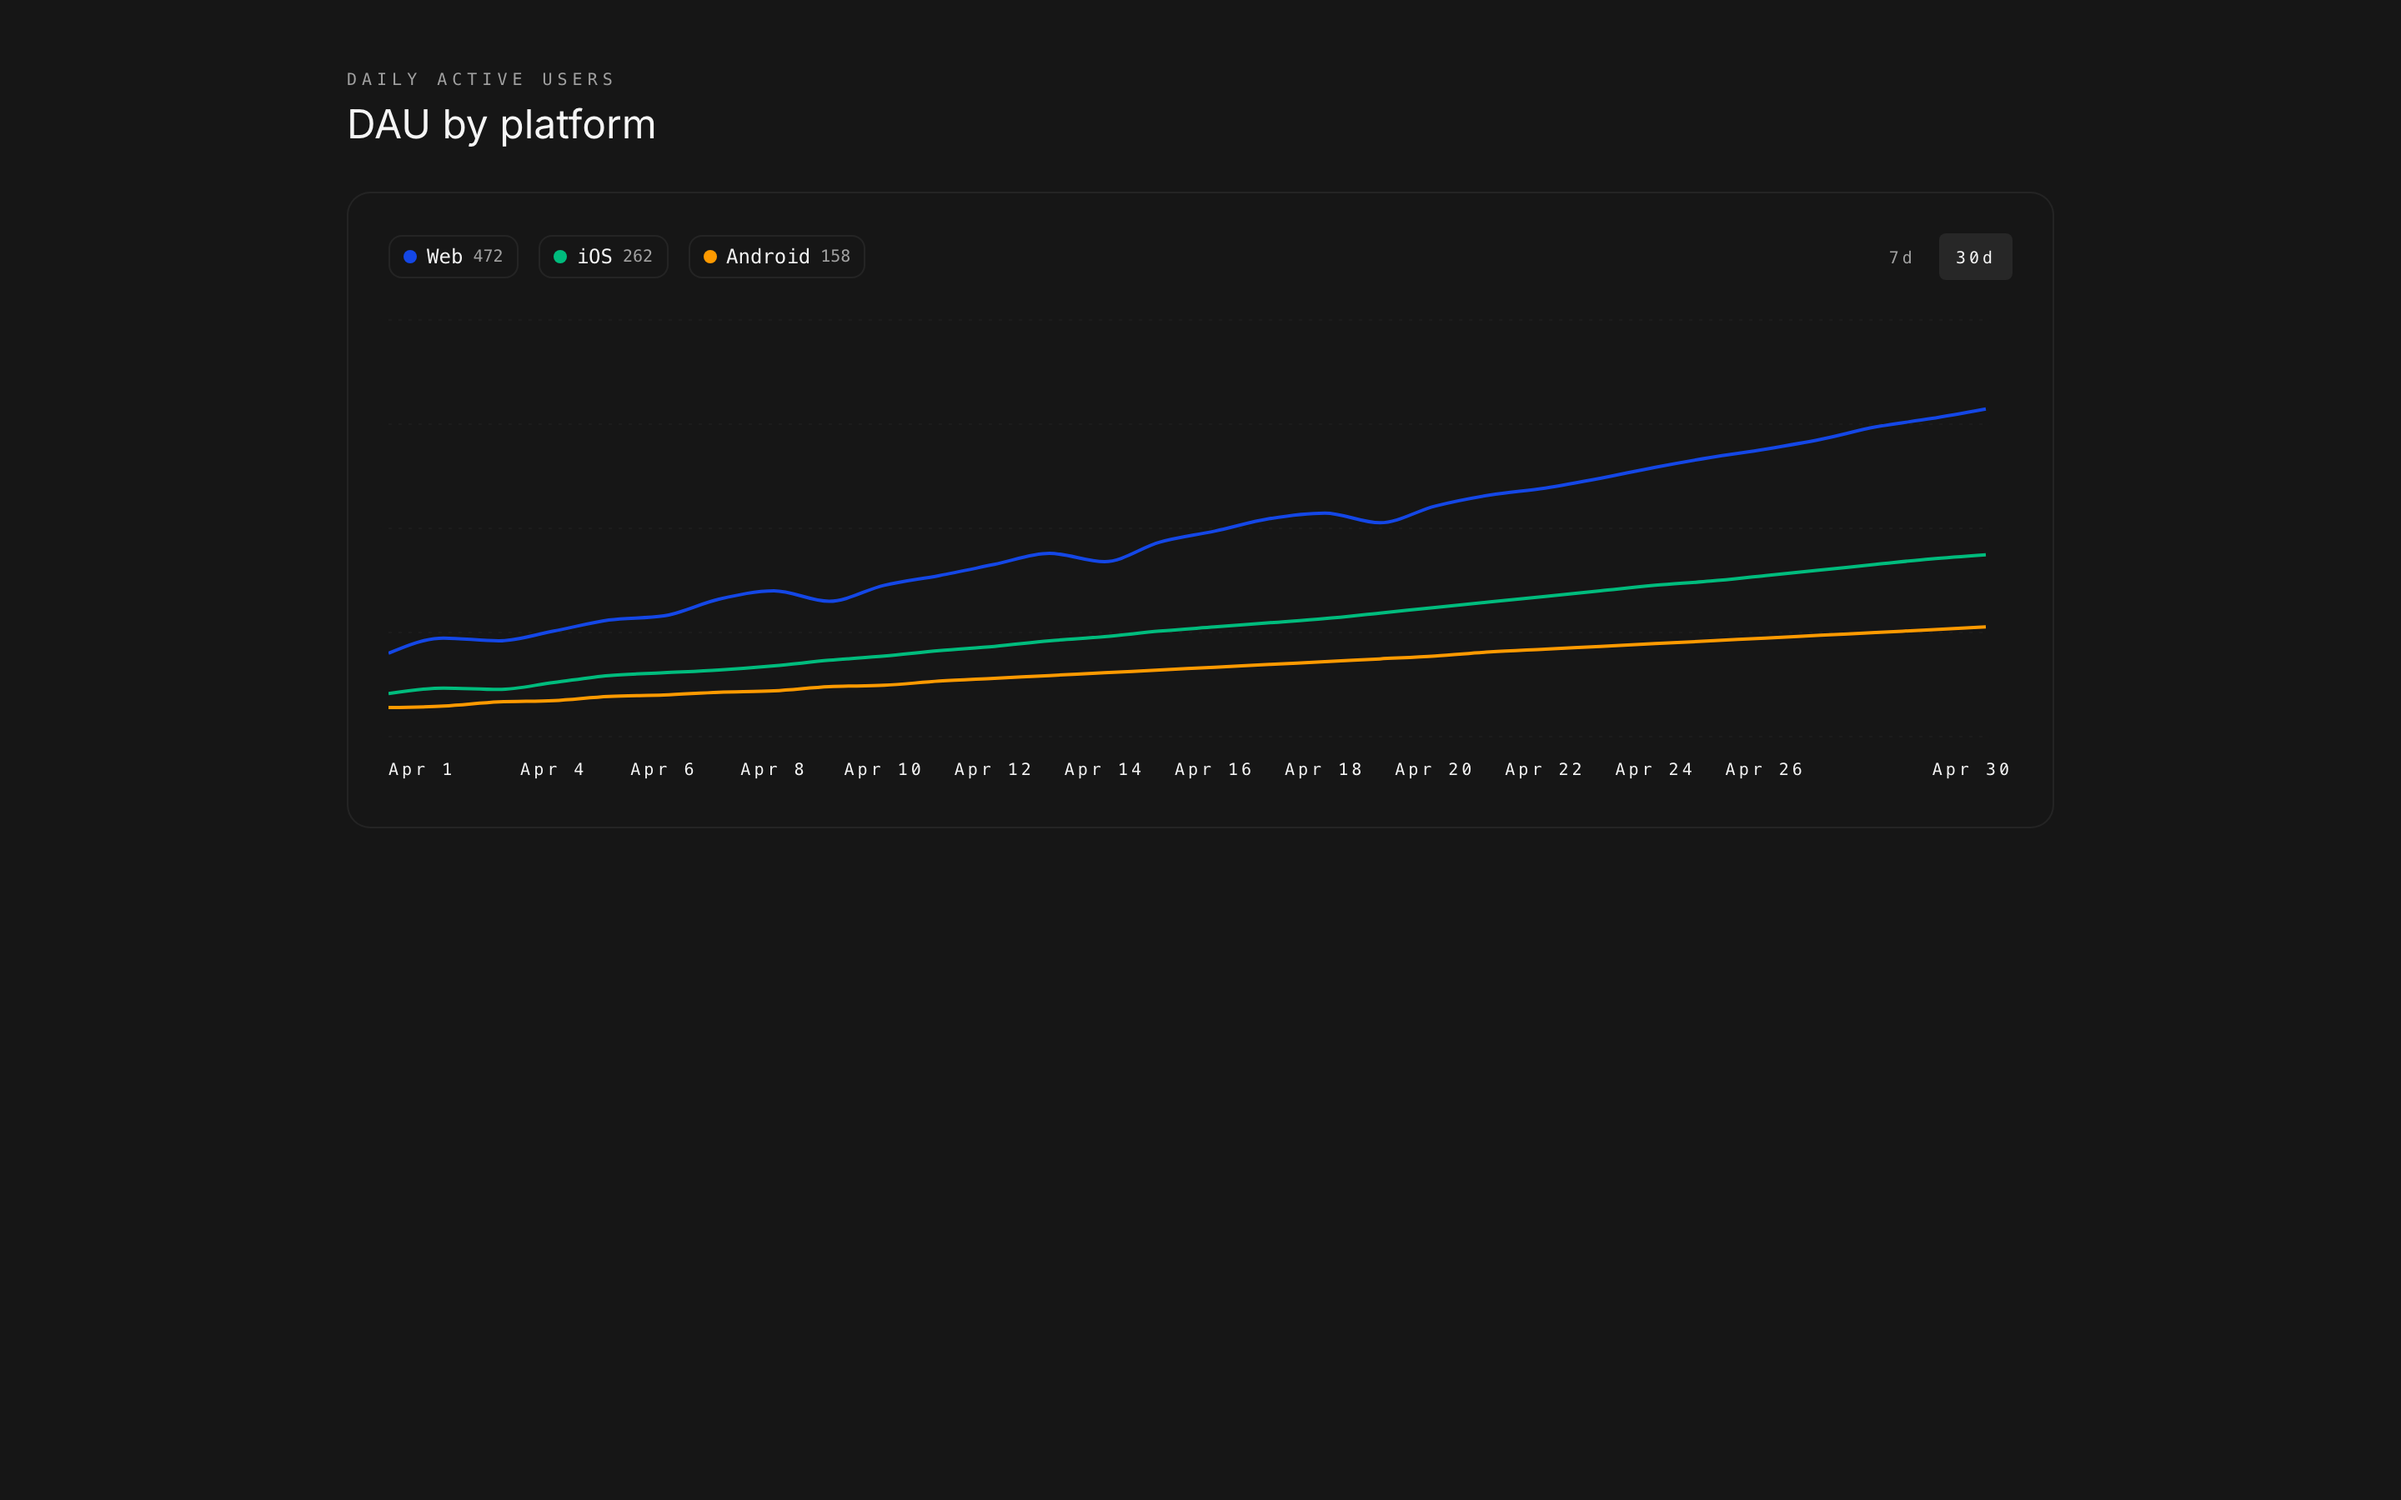
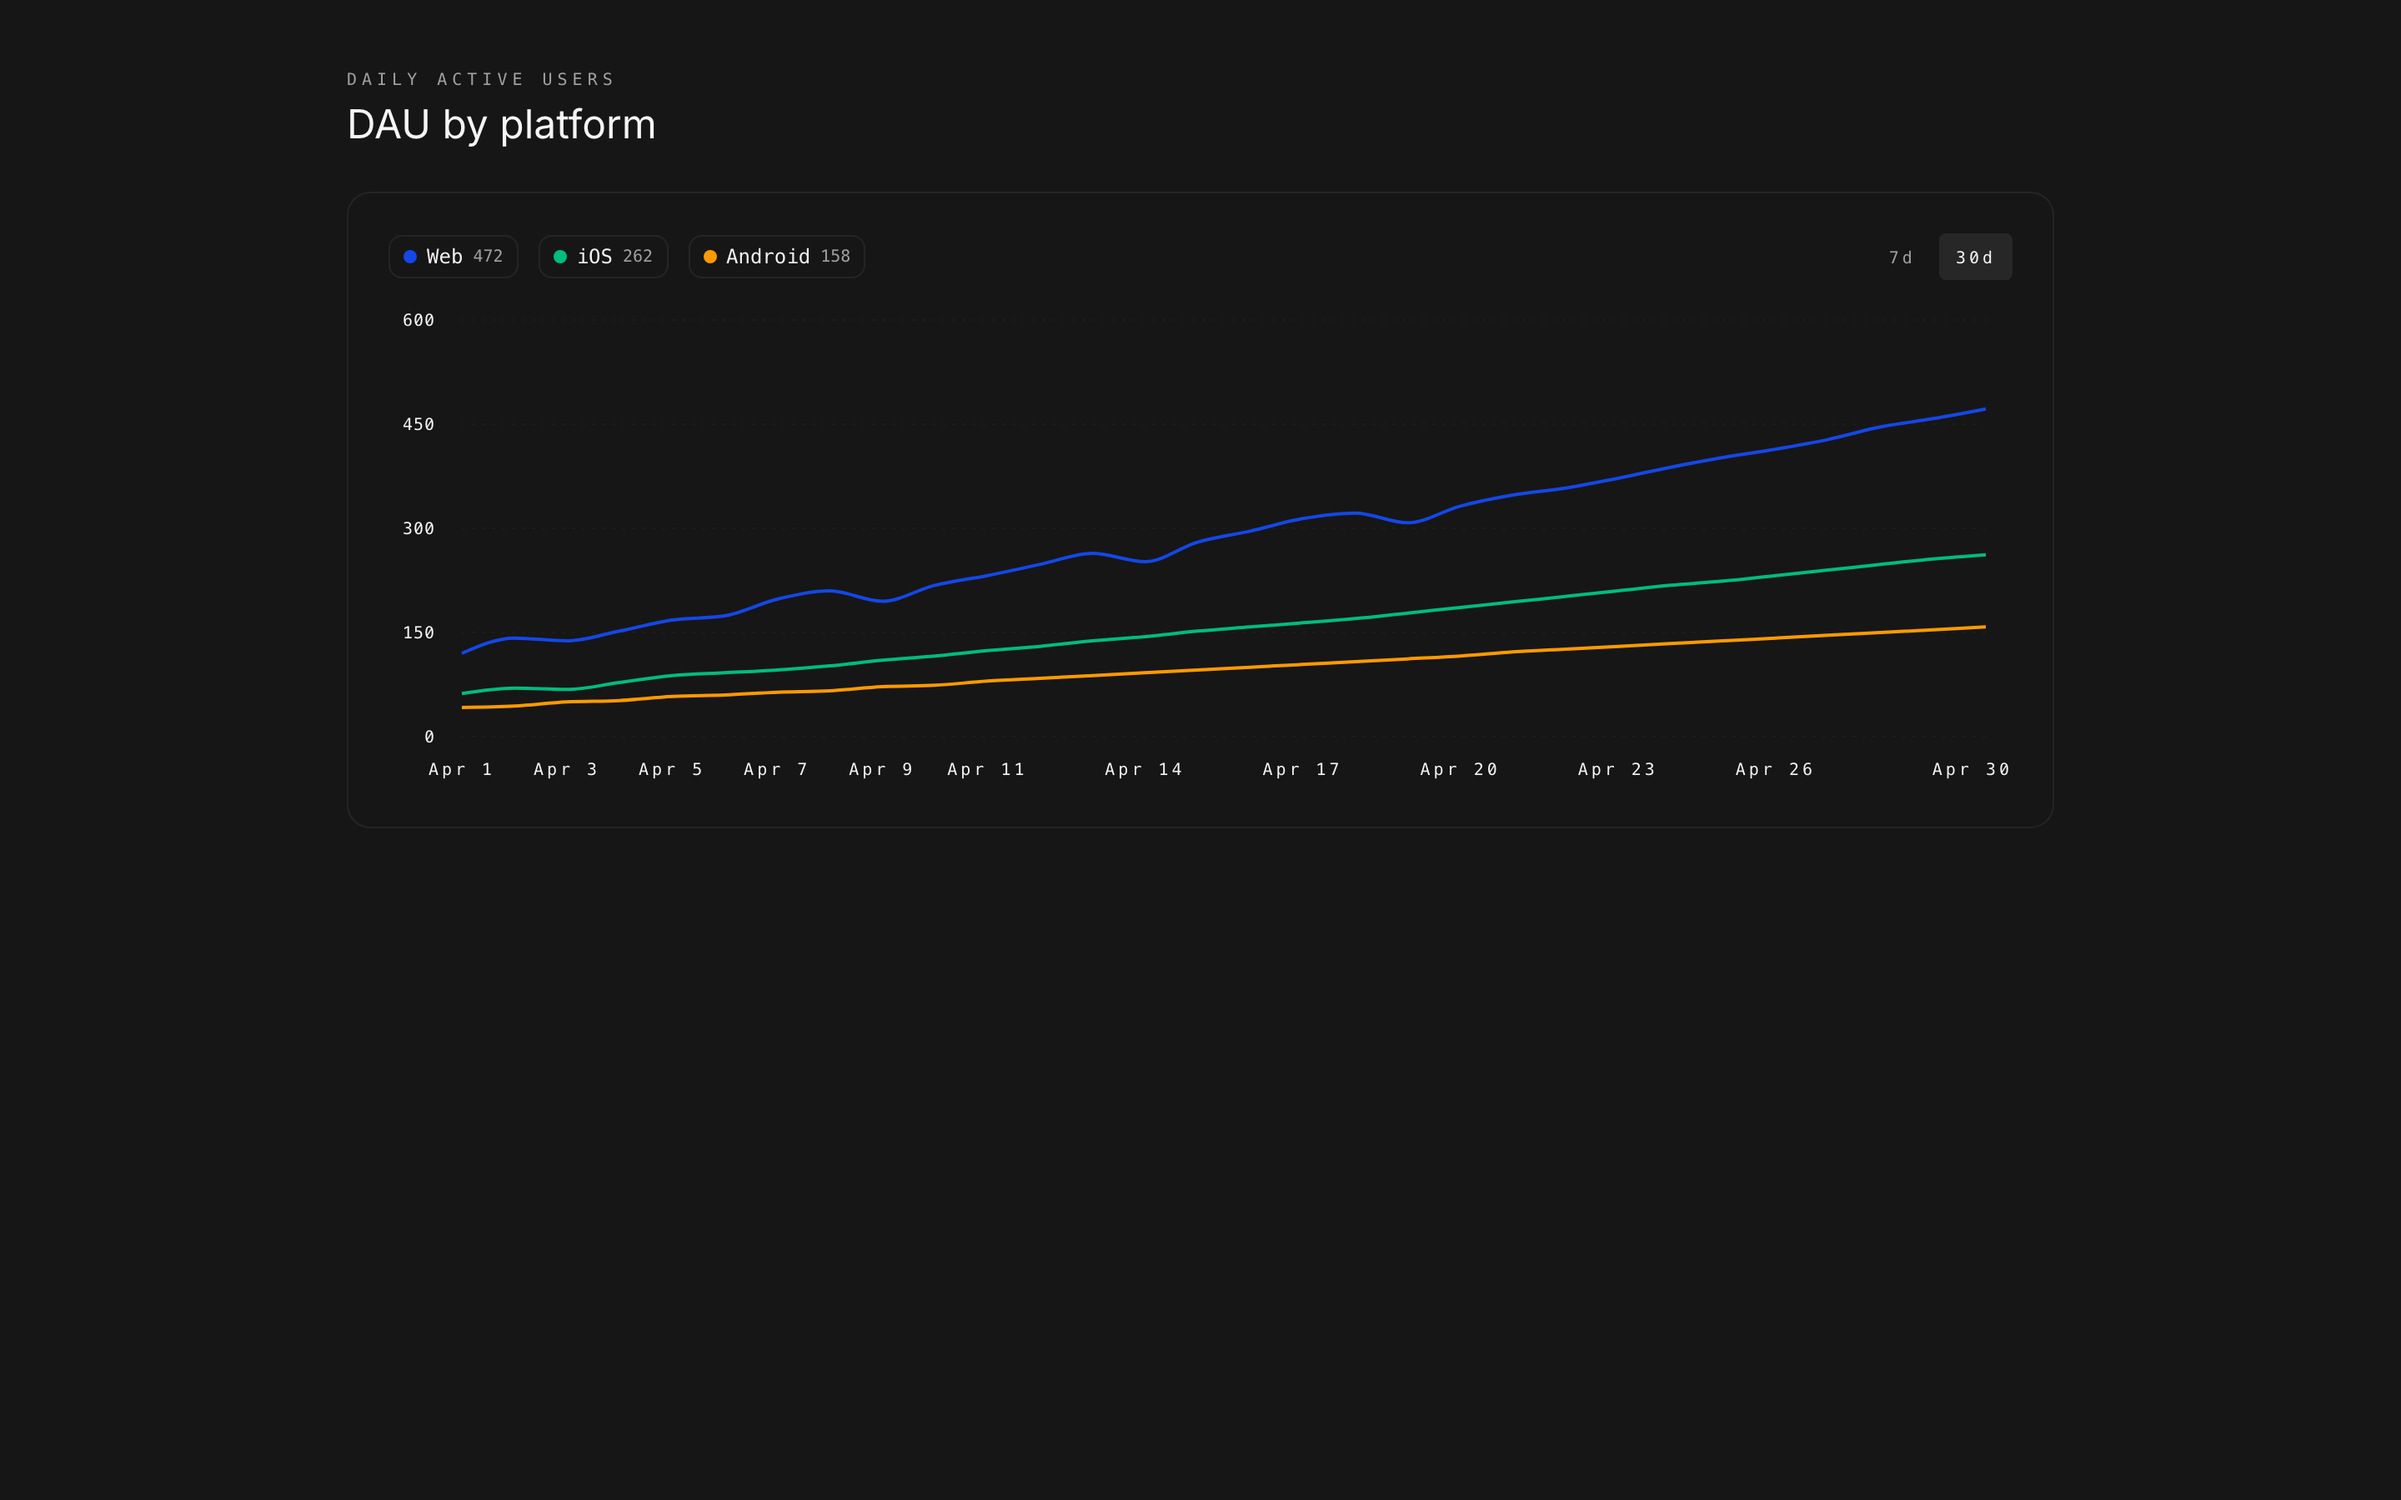
fix(charts): Y axes render their tick labels; SubmitEvent in two forms
The five cartesian charts (revenue-area, bar-grouped, line-multi,
waterfall, scatter) declare a Y axis, but ChartAxis gave it
width="auto", which in Recharts 3.8 never renders the axis here: it
waits for a size that it only computes after rendering. The charts had
no Y scale on the live page as well as in previews. ChartContainer now
measures the widest rendered Y label after each render and passes the
width down (44px floor, explicit width still a floor), so the axis
fits its labels across data, locale and container size.

The snapshot capture now waits until every chart that has a Y axis has
drawn its tick labels (Recharts 3 draws them in a separate layer,
.recharts-yAxis-tick-labels) and fails instead of committing a preview
without them. The five chart previews are re-captured.

modals-share-link and onboarding use React's SubmitEvent instead of
the deprecated FormEvent.

diff --git a/apps/www/src/components/chart.tsx b/apps/www/src/components/chart.tsx
@@ -25,7 +25,7 @@
  *   </ChartContainer>
  */
 
-import type { ReactNode } from "react";
+import { createContext, type ReactNode, useContext, useLayoutEffect, useRef, useState } from "react";
 import {
   CartesianGrid,
   Legend,
@@ -59,6 +59,18 @@ export function chartColor(i: number): string {
  * inherit the muted token for axis text, and wraps in a
  * <ResponsiveContainer> so showcases just need to provide a height.
  */
+/** Narrowest Y axis, so short labels ("$0") still leave room for the tick margin. */
+const Y_AXIS_MIN = 44;
+/** Space between a Y label and the plot (the axis tickMargin) plus a pixel of slack. */
+const Y_AXIS_GAP = 12;
+
+/**
+ * The Y axis width ChartContainer measured from its rendered labels. Recharts'
+ * own width="auto" never renders the axis in Recharts 3.8 here (it waits for a
+ * size it only computes after rendering), so the container sizes it instead.
+ */
+const YAxisWidth = createContext<number | undefined>(undefined);
+
 export function ChartContainer({
   children,
   className = "h-72",
@@ -69,16 +81,31 @@ export function ChartContainer({
   /** What the chart shows, for screen readers. When given, the chart is one image with this name. */
   label?: string;
 }) {
+  const ref = useRef<HTMLDivElement>(null);
+  const [yWidth, setYWidth] = useState(Y_AXIS_MIN);
+  // After every render, fit the Y axis to its widest label (labels change with
+  // data, locale and the container's size).
+  useLayoutEffect(() => {
+    const labels = ref.current?.querySelectorAll(".recharts-yAxis-tick-labels .recharts-cartesian-axis-tick-value");
+    if (!labels?.length) return;
+    let widest = 0;
+    for (const l of labels) widest = Math.max(widest, l.getBoundingClientRect().width);
+    const next = Math.max(Y_AXIS_MIN, Math.ceil(widest) + Y_AXIS_GAP);
+    if (Math.abs(next - yWidth) > 1) setYWidth(next);
+  });
   return (
     <div
+      ref={ref}
       {...(label ? { role: "img", "aria-label": label } : {})}
       className={`${className} text-foreground [&_.recharts-cartesian-axis-tick_text]:fill-muted-foreground [&_.recharts-cartesian-axis-tick_text]:font-mono [&_.recharts-cartesian-axis-tick_text]:text-[10px] [&_.recharts-cartesian-axis-tick_text]:uppercase [&_.recharts-xAxis_.recharts-cartesian-axis-tick_text]:tracking-[0.2em] [&_.recharts-yAxis_.recharts-cartesian-axis-tick_text]:tracking-[0.05em] [&_.recharts-cartesian-grid-bg]:fill-transparent [&_.recharts-cartesian-grid_line]:stroke-border [&_.recharts-polar-grid_line]:stroke-border [&_.recharts-polar-angle-axis-tick_text]:fill-muted-foreground [&_.recharts-polar-angle-axis-tick_text]:font-mono [&_.recharts-polar-angle-axis-tick_text]:text-[10px]`}
     >
       {/* Start at a valid size: the default -1x-1 makes Recharts warn on the
           render before the container has been measured. */}
-      <ResponsiveContainer width="100%" height="100%" initialDimension={{ width: 1, height: 1 }}>
-        {children as React.ReactElement}
-      </ResponsiveContainer>
+      <YAxisWidth.Provider value={yWidth}>
+        <ResponsiveContainer width="100%" height="100%" initialDimension={{ width: 1, height: 1 }}>
+          {children as React.ReactElement}
+        </ResponsiveContainer>
+      </YAxisWidth.Provider>
     </div>
   );
 }
@@ -144,6 +171,7 @@ export function ChartAxis({
   // was applied after layout: Y labels overflowed a fixed 36px axis and got
   // clipped ("100%" rendered as "0%"), and X labels collided on narrow charts.
   const isY = axis === "y";
+  const measuredY = useContext(YAxisWidth);
   const common = {
     dataKey,
     tickFormatter,
@@ -164,12 +192,12 @@ export function ChartAxis({
   if (isY) {
     const o =
       orientation === "left" || orientation === "right" ? orientation : undefined;
-    // `width` acts as a floor; "auto" sizes the axis to its longest label.
+    // `width` acts as a floor over the measured width of the longest label.
     return (
       <YAxis
         {...common}
         interval={interval}
-        width={width === undefined ? "auto" : Math.max(width, 44)}
+        width={Math.max(width ?? 0, measuredY ?? Y_AXIS_MIN, Y_AXIS_MIN)}
         orientation={o}
       />
     );

diff --git a/scripts/lib/capture.ts b/scripts/lib/capture.ts
@@ -139,10 +139,36 @@ export async function canvasRects(page: Page): Promise<Rect[]> {
     .map((r) => ({ x: r.x, y: r.y, width: r.width, height: r.height }))`)) as Rect[];
 }
 
+/** Recharts Y axes on the page that have not drawn any tick labels yet. */
+// Recharts 3 draws tick labels in a separate layer (".recharts-yAxis-tick-labels"),
+// not inside the axis group, so the labels are counted per chart surface.
+const BARE_Y_AXES = `[...document.querySelectorAll(".recharts-wrapper")]
+  .filter((chart) => chart.querySelector(".recharts-yAxis"))
+  .filter((chart) => ![...chart.querySelectorAll(".recharts-yAxis-tick-labels .recharts-cartesian-axis-tick-value")].some((t) => (t.textContent ?? "").trim() && t.getBoundingClientRect().width > 0))
+  .length`;
+
+/**
+ * Recharts sizes a `width="auto"` Y axis from its measured labels a frame or
+ * two after layout, so a chart can look settled while its Y axis is still
+ * empty. Step time (virtual and real) until every visible Y axis has labels,
+ * and fail rather than capture a chart without them.
+ */
+export async function waitForChartAxes(page: Page): Promise<void> {
+  const realStart = Date.now();
+  for (;;) {
+    const bare = (await page.evaluate(BARE_Y_AXES)) as number;
+    if (bare === 0) return;
+    if (Date.now() - realStart > SETTLE_WATCHDOG_MS) throw new LayoutNeverSettledError(SETTLE_WATCHDOG_MS, `${bare} chart Y axis(es) never drew tick labels`);
+    await page.waitForTimeout(16);
+    await page.clock.runFor(SETTLE_STEP_MS);
+  }
+}
+
 /** Open a design's preview, wait until it has settled and take a PNG of the viewport. */
 export async function captureDesign(page: Page, url: string): Promise<{ png: Buffer; canvases: Rect[] }> {
   await page.goto(url, { waitUntil: "networkidle", timeout: 60_000 });
   await waitForSettledVirtual(page);
+  await waitForChartAxes(page);
   const canvases = await canvasRects(page);
   const png = await page.screenshot({ fullPage: false, animations: "disabled" });
   return { png, canvases };

diff --git a/apps/www/src/pages/showcase/modals-share-link/view.tsx b/apps/www/src/pages/showcase/modals-share-link/view.tsx
@@ -22,7 +22,7 @@ import { ScreenBoundary } from "@wirefront/ui/wirefront/boundary";
 import { interpolate, useMessages } from "@wirefront/ui/wirefront/provider";
 import type { Action } from "@wirefront/ui/wirefront/types";
 import { CheckIcon, ChevronDownIcon, CopyIcon, GlobeIcon, LinkIcon, LockIcon, Share2Icon } from "lucide-react";
-import { type FormEvent, useState } from "react";
+import { type SubmitEvent, useState } from "react";
 
 import { type LinkAccess, ShareInviteInput, type ShareMember, type ShareRole, type ShareRoleChange } from "./schema";
 
@@ -137,7 +137,7 @@ function ShareDialogScreen({
   });
   const failure = inviteError ?? invite.error ?? role.error ?? remove.error ?? link.error;
 
-  const submitInvite = (event: FormEvent) => {
+  const submitInvite = (event: SubmitEvent) => {
     event.preventDefault();
     const parsed = ShareInviteInput.safeParse({ emails: emails.split(/[\s,;]+/).filter(Boolean), role: inviteRole });
     if (!parsed.success) {

diff --git a/apps/www/src/pages/showcase/onboarding/view.tsx b/apps/www/src/pages/showcase/onboarding/view.tsx
@@ -15,7 +15,7 @@ import { ScreenBoundary } from "@wirefront/ui/wirefront/boundary";
 import { useActionForm } from "@wirefront/ui/wirefront/form";
 import { interpolate, useMessages, WirefrontLink } from "@wirefront/ui/wirefront/provider";
 import type { Action } from "@wirefront/ui/wirefront/types";
-import { type FormEvent, type ReactNode, useEffect, useRef, useState } from "react";
+import { type SubmitEvent, type ReactNode, useEffect, useRef, useState } from "react";
 import { CreateWorkspaceInput, InviteEmail, type InviteTeammatesInput } from "./schema";
 
 /** Every string on the screen; override any of them with WirefrontProvider `messages` ("workspaceOnboarding.<key>"). */
@@ -111,7 +111,7 @@ function OnboardingFlow({ onCreateWorkspace, onInvite, enterHref, plan }: Pick<W
     },
   });
 
-  const add = (e: FormEvent) => {
+  const add = (e: SubmitEvent) => {
     e.preventDefault();
     const email = draft.trim().toLowerCase();
     if (!email) return;
